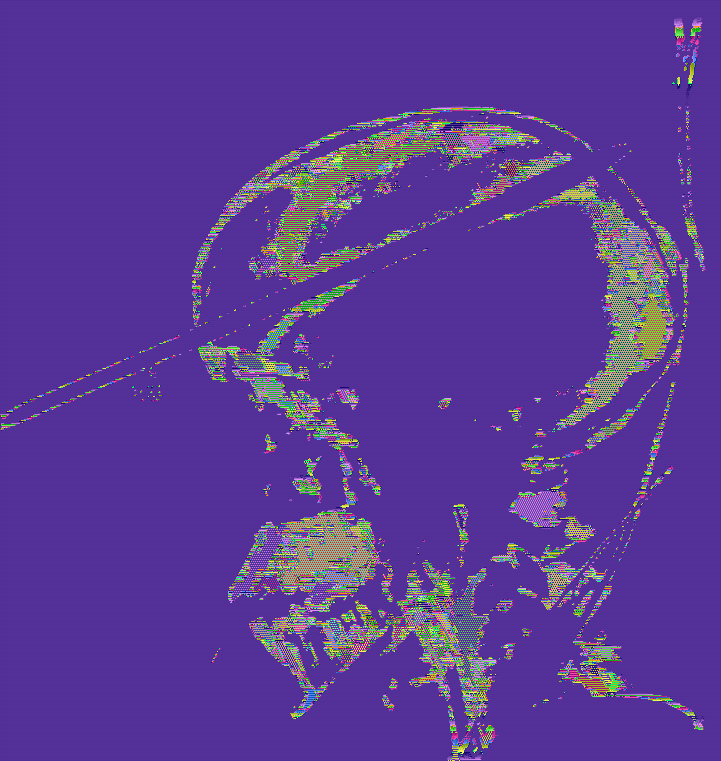
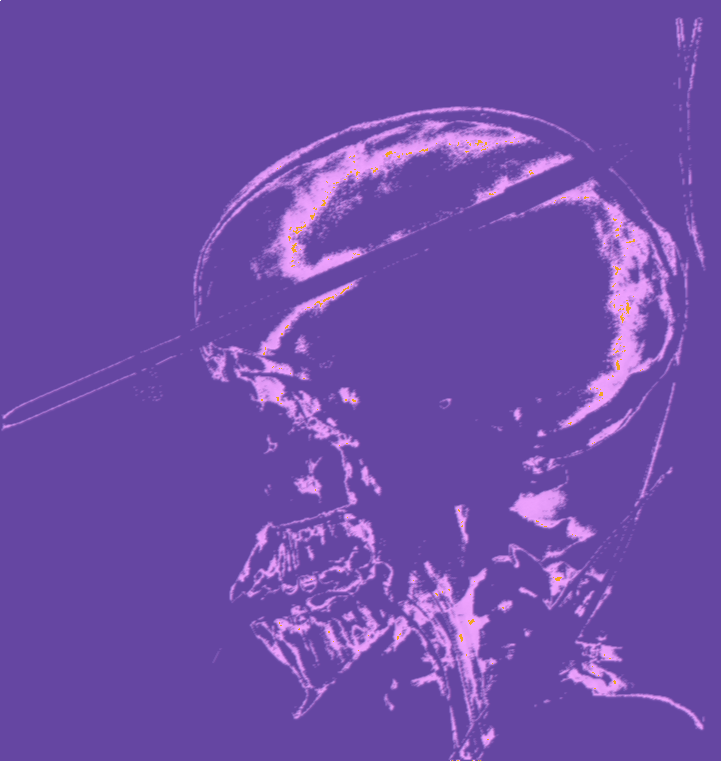
FROM MV

diff --git a/1course_my1.c b/1course_my1.c
@@ -39,7 +39,7 @@ void writePng(const char* filename, const unsigned char* image, unsigned width, 
 void preparation(char * od, int w, int h){
     int i, j;
     for (i=0; i<h; i++)
-           for (j=0; j<w; j++) {
+           for (j=0; i<w; j++) {
                 if (od[w*i + j]<100) od[w*i + j]=0;
                 if (od[w*i + j]>168) od[w*i + j]=255;
            }
@@ -64,7 +64,7 @@ void fGauss(char * od, char * dc, int w, int h){
         for (i=1; i < h-1; i++)
            for (j=1; j < w-1; j++) {
                 dc[w*i+j]=0.12*od[w*i+j]+0.12*od[w*(i+1)+j]+0.12*od[w*(i-1)+j];
-                dc[w*i+j]=dc[w*i+j]+0.12*od[w*i+(j+1)]+0.12*od[w*i+(j-1)];
+                 dc[w*i+j]=dc[w*i+j]+0.12*od[w*i+(j+1)]+0.12*od[w*i+(j-1)];
                 dc[w*i+j]=dc[w*i+j]+0.09*od[w*(i+1)+(j+1)]+0.09*od[w*(i+1)+(j-1)];
                 dc[w*i+j]=dc[w*i+j]+0.09*od[w*(i-1)+(j+1)]+0.09*od[w*(i-1)+(j-1)];
            }
@@ -84,84 +84,34 @@ void colouring(char * dc, char * mcod, int w, int h, int n){
         return;
 }
 
-
-int exists(int i,int j,int width,int height){
-    if ((i>0) && (i<height) && (j>0) && (j<width)) return 1;
-    return 0;
-}
-
-void DFS(int i,int j,int w,int h,unsigned char* image, int* components,int adj_num)
-{
-    components[w*i + j] = adj_num;
-    if (exists(i, j-2, w, h))
-        if ((fabs(image[w*i + j] - image[w*i + (j-2)]) <= 10) && !(components[w*i + (j-2)]))
-            DFS(i, j-2, w, h, image, components, adj_num);
-
- 
-
-    if (exists(i-2, j+1, w, h))
-        if ((fabs(image[w*i + j] - image[w*(i-2) + (j+1)]) <= 10) && !(components[w*(i-2) + (j+1)]))
-            DFS(i-2, j+1, w, h, image, components, adj_num);
-
-
-    if (exists(i+2, j+1, w, h))
-        if ((fabs(image[w*i + j] - image[w*(i+2) + (j+1)]) <= 10) && !(components[w*(i+2) + (j+1)]))
-            DFS(i+2, j+1, w, h, image, components, adj_num);
-
-    return;
-}
-
-
 int main() {
 
     //char * filename = "hamster.png";
     char * filename = "Scull.png";
-    int w, h, i, j, k=0, adj_num=0, n=4;
-    char * picture = loadPng(filename, &w, &h);
-    if (picture == NULL){
+    int w, h, i, k=0, n=4;
+    char * idata = loadPng(filename, &w, &h);
+    if (idata == NULL){
         printf("I can not read the picture from the file %s. Error.\n", filename);
         return -1;
     }
 
-
-    char* image = (char*)malloc(w*h*sizeof(char));
-    for (i = 0; i < n*w*h; i+=n) {
-        image[k] = 0.299*picture[i] + 0.578*picture[i+1] + 0.114*picture[i+2];
+    char* odata = (char*)malloc(w*h*sizeof(char));
+    char* mcodata = (char*)malloc(w*h*sizeof(char)); 
+    for (i=0; i < w*h*n; i+=n){
+        odata[k]=0.299*idata[i]+0.578*idata[i+1]+0.114*idata[i+2];
         k++;
     }
 
-    char* image_1 = image;
+    char * datacopy = odata;
 
-    char* data = (char*)malloc(n*w*h*sizeof(char));
-
-    preparation(image, w, h);
-    fGauss(image, image_1, w, h);
-   // fSobel(image, image_1, w, h);
-    colouring(image_1, data, w, h, n);
-   /* int* comps = (int*)malloc((n*w*h)*sizeof(int));
-    for (i=0; i < w*h; i++) comps[i] = 0;
-
-    for (i = 2; i < h-1; i++)
-        for (j = 2; j < w-1; j++)
-            if (!comps[w*i + j]) {
-                   adj_num++;
-                DFS(i, j, w, h, image_1, comps, adj_num);
-            }
-
-    k=1;
-    for (i=0; i < n*w*h; i+=n)
-    {
-        data[i] = 80+comps[k]+0.5*comps[k-1];
-        data[i+1] = 45+comps[k];
-        data[i+2] = 150+comps[k];
-        if (n==4) data[i+3] = 255;
-        k++;
-   } */
+   // preparation(odata, w, h);
+   // fSobel(odata, datacopy, w, h);
+    //fGauss(odata, datacopy, w, h);
+    //colouring(datacopy, mcodata, w, h, n);
 
     //char * new_image = "hamster-modified.png";
     char * new_image = "Scull-modified.png";
-    writePng(new_image, data, w, h);
+    writePng(new_image, mcodata, w, h);
 
     return 0;
 }
-                                                               
